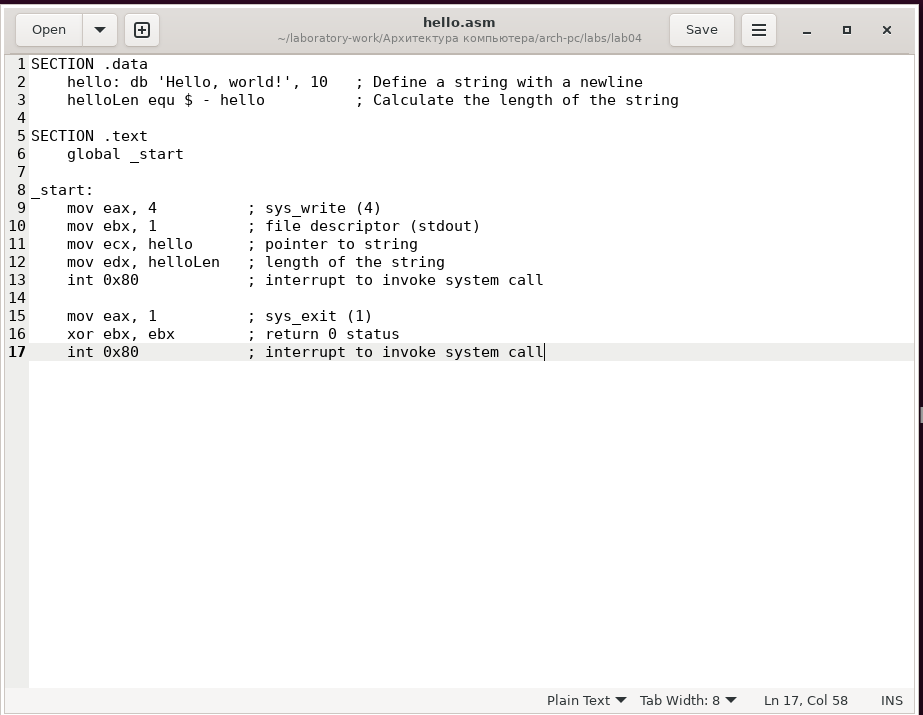
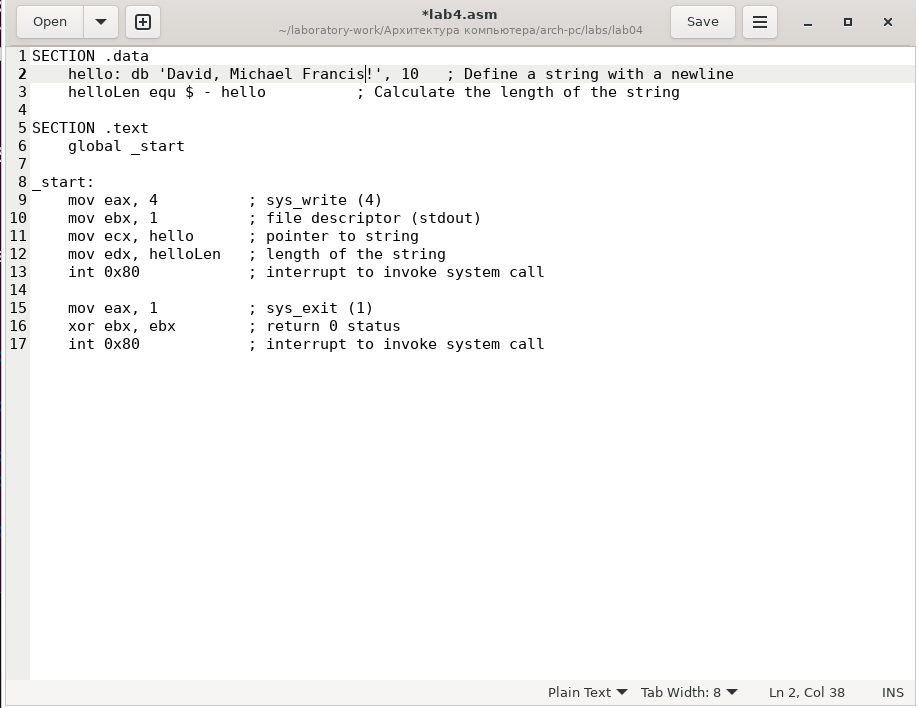
made changes

diff --git a/Архитектура компьютера/arch-pc/labs/lab04/report/report.md b/Архитектура компьютера/arch-pc/labs/lab04/report/report.md
@@ -7,6 +7,7 @@
 
 ### **Описание задачи**
 Процесс создания ассемблерной программы можно изобразить на следующей схеме
+
 ![Screenshot01](images/Screenshot01.png)
 
 **В процессе создания ассемблерной программы можно выделить четыре шага:**
@@ -30,24 +31,30 @@
 
 
 1. **Заходим в папку, в которой хотим создать файл .asm и с помощью команды touch report.asm записываем в нее следующий текст**
+
 ![Screenshot02](images/Screenshot02.png)
 
 2. **NASM превращает текст программы в объектный код. Например, для компиляции приве-дённого выше текста программы «Hello World» необходимо
  написать** :nasm -f elf hello.asm
+
 ![Screenshot03](images/Screenshot03.png)
 
 3. **Выполните следующую команду**: nasm -o obj.o -f elf -g -l list.lst hello.asm
+
 ![Screenshot04](images/Screenshot04.png)
 Данная команда скомпилирует исходный файл hello.asm в obj.o (опция -o позволяет 
 задать имя объектного файла, в данном случае obj.o), при этом формат выходного файла 
 будет elf, и в него будут включены символы для отладки (опция -g), кроме того, будет создан файл листинга list.lst (опция -l).
 
 4.**Объектный файл должен быть передан компоновщику для обработки с помощью команды**:ld -m elf_x84_64 hello.o -o hello
+
 ![Screenshot05](images/Screenshot05.png)
 **Выполните следующую команду**:ld -m elf_i386 obj.o -o main
+
 ![Screenshot06](images/Screenshot06.png)
 
 5.**Запустить на выполнение созданный исполняемый файл, находящийся в текущем каталоге,можно, набрав в командной строке**:./hello
+
 ![Screenshot07](images/Screenshot07.png)
 
  
@@ -56,9 +63,14 @@
  полное имя вместо "Hello world". после того как я перевел полученный текст программы lab04.asm в объектный файл и окончательно связал
  объектный файл, Затем запустили исполняемый файл, Изображения ниже:
 ![Screenshot08](images/Screenshot08.png)
+
 ![Screenshot09](images/Screenshot09.png)
+
 ![Screenshot10](images/Screenshot10.png)
 
 
 **Выход:Из этой лабораторной работы я понял, как компилировать и собирать программы с помощью NASM Assembler**
+
+**Ссылка на официальный сайт** [Github](https://github.com/Ushie47/Laboratory-work.git)
+
  
